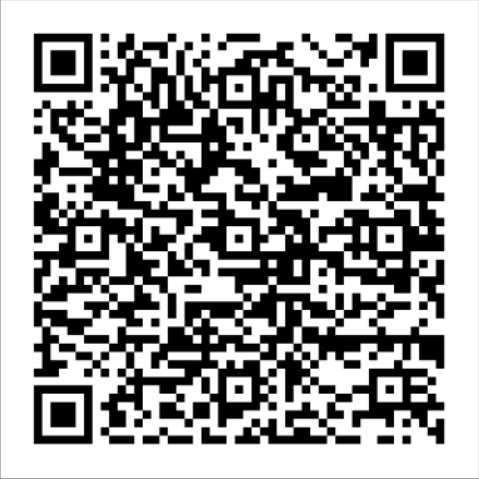
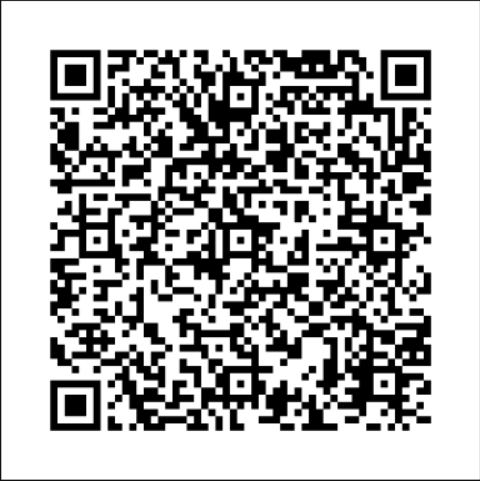
chave pix

diff --git a/comissions.html b/comissions.html
@@ -48,7 +48,7 @@
 
             FORMAS DE PAGAMENTO<br>
             (Utilize apenas depois de ter entrado em contato comigo e feito o pedido)<br>
-            Minha chave pix: +5568999947428<br>
+            Minha chave pix: chavesdaniel462@gmail.com<br>
             QR Code (pix):<br>
             <img src="imagens/pix.png"><br><br>
 

diff --git a/style.css b/style.css
@@ -92,7 +92,7 @@ button {
 }
 
 .texto-comm {
-    font-family: "Arial";
+    font-family:'Franklin Gothic Medium', 'Arial Narrow', Arial, sans-serif;
     background-color: springgreen;
     color: black;
     font-size:xx-large;
